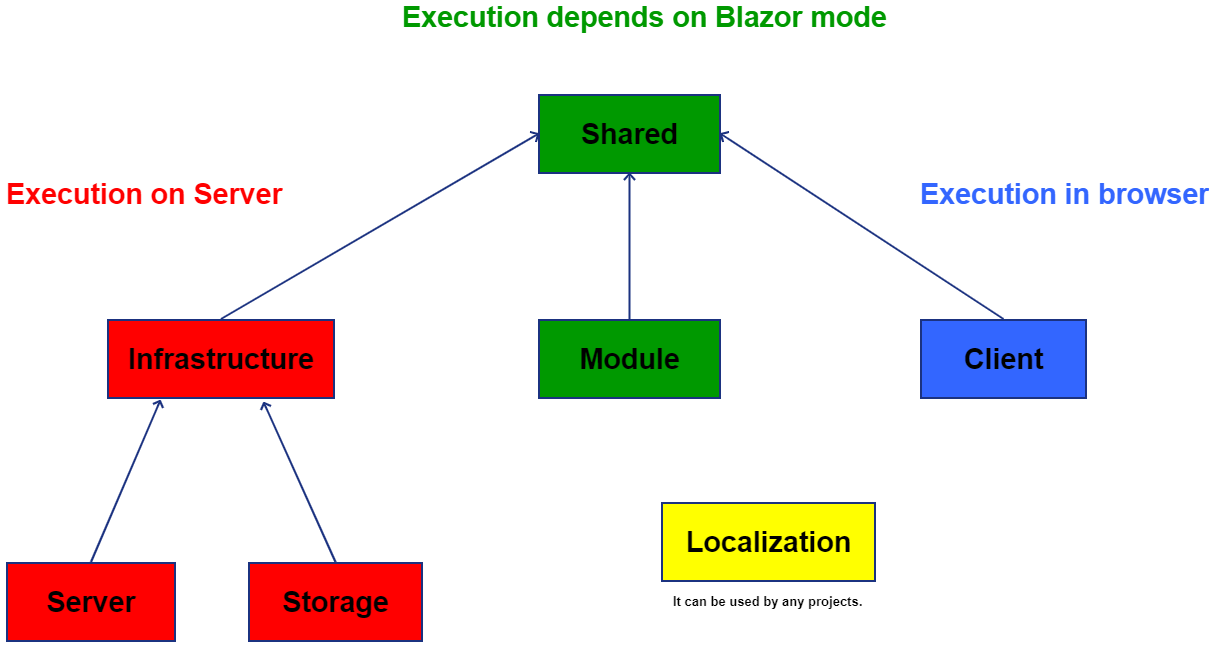
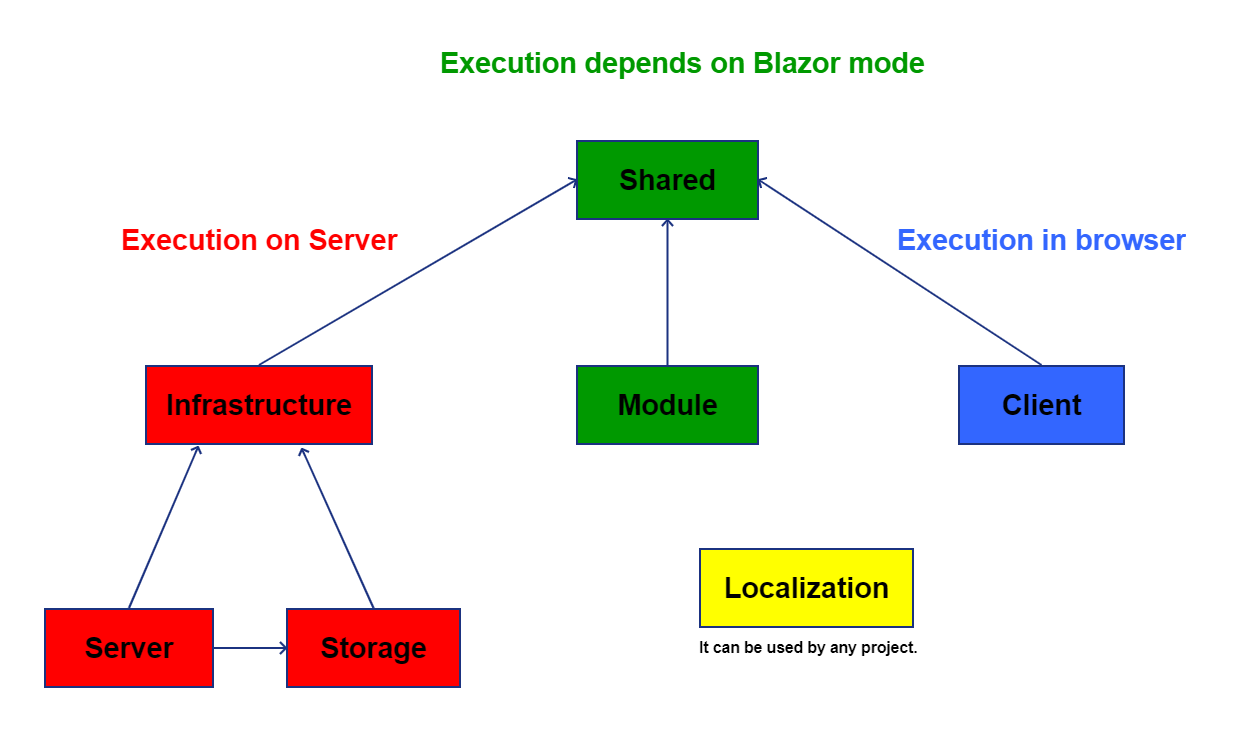
docs update

diff --git a/docs/intro/architecture.rst b/docs/intro/architecture.rst
@@ -1,5 +1,20 @@
-The architecture
-================
+Architecture
+============
 
 .. image:: /images/blazorboilerplate-architecture.png
    :align: center
+
+The diagram shows the dependencies of the main projects.
+Every project with text to localize depends on **Localization** project.
+
+**Client** project is used only with Blazor WebAssembly, so it runs on the browser. It initializes the WebAssembly startup.
+
+**Server** project manages the main services: authentication, authorization, API, etc.
+
+**Storage** project manages the persistence of models in a database with `Entity Framework Core <https://docs.microsoft.com/en-us/ef/core/>`_.
+
+**Infrastructure** project contains interfaces and models in common among projects running on server.
+
+**Shared** project contains base interfaces and models in common among projects running on server or client.
+
+**Module** projects contains UI, services, etc. that define your web application.

diff --git a/docs/readme.md b/docs/readme.md
@@ -1,0 +1,14 @@
+# Blazor Boilerplate documentation
+
+The folder contains the documentation for Blazor Boilerplate.
+
+We are using [Read the docs](https://readthedocs.org/) to host the documentation and the rendered version
+can be found [here](https://blazor-boilerplate.readthedocs.io/).
+
+Doc pages are authored in ReStructuredText (RST) - you can find a primer [here](http://www.sphinx-doc.org/en/stable/rest.html).
+
+You can find more information about RTD and Sphinx under the following links:
+
+* [Read the Docs documentation](https://docs.readthedocs.io/en/latest/index.html)
+* [Sphinx](http://www.sphinx-doc.org/)
+* [Getting started Screencast](https://www.youtube.com/watch?feature=player_embedded&v=oJsUvBQyHBs)

diff --git a/docs/features/identityserver.rst b/docs/features/identityserver.rst
@@ -1,0 +1,6 @@
+IdentityServer4
+===============
+
+`IdentityServer4 <https://github.com/IdentityServer/IdentityServer4>`_ has been recently updated to version 4.0.
+
+There are some breaking changes and new configurations are needed, so the integration in Blazor Boilerplate is in the roadmap.
